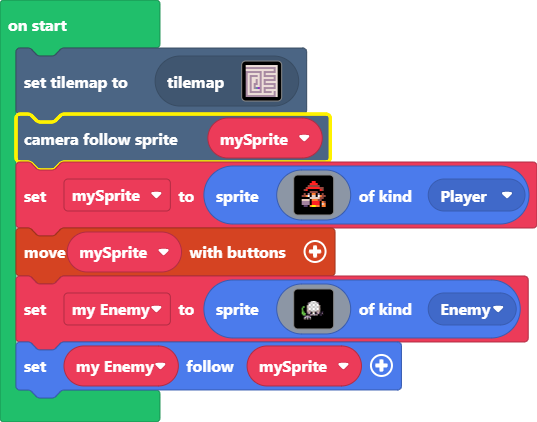
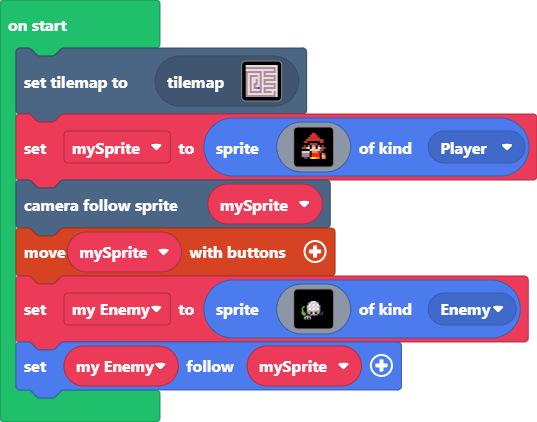
Update main.blocks, main.ts

Changed region(s): [[0.0, 0.2464, 1.0, 0.5545]]

diff --git a/main.ts b/main.ts
@@ -1,7 +1,6 @@
-let mySprite: Sprite = null
 tiles.setCurrentTilemap(tilemap`level1`)
+let mySprite = sprites.create(assets.image`myImage`, SpriteKind.Player)
 scene.cameraFollowSprite(mySprite)
-mySprite = sprites.create(assets.image`myImage`, SpriteKind.Player)
 controller.moveSprite(mySprite)
 let my_Enemy = sprites.create(assets.image`myImage0`, SpriteKind.Enemy)
 my_Enemy.follow(mySprite)
